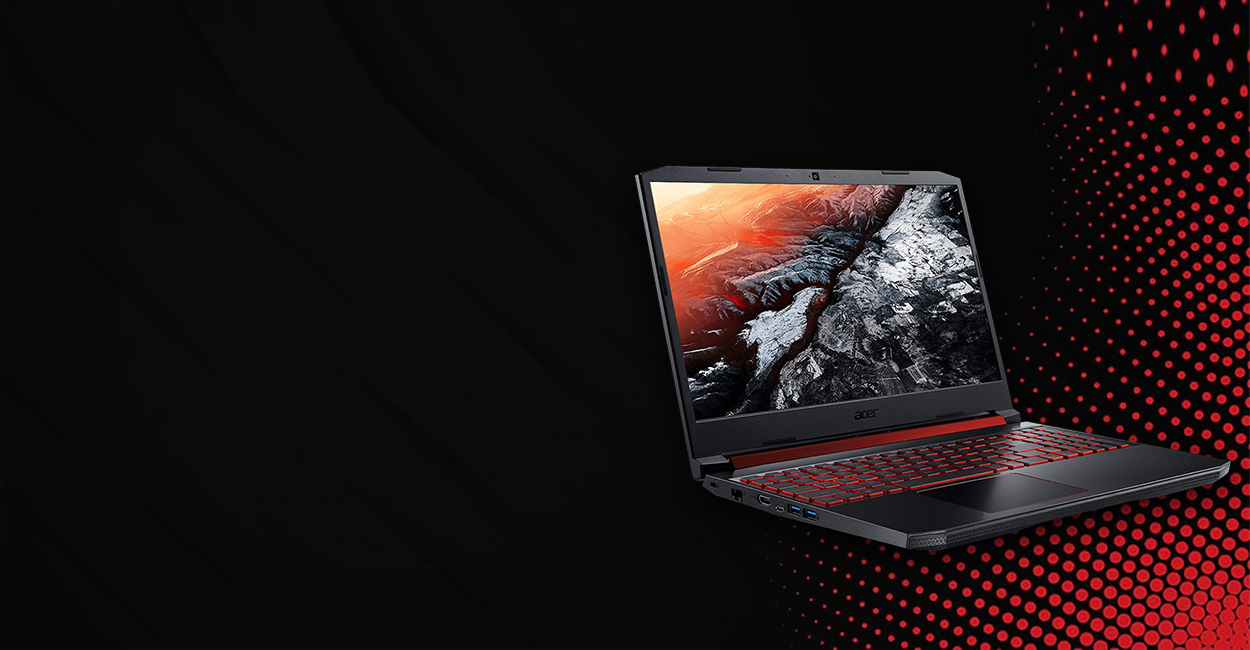
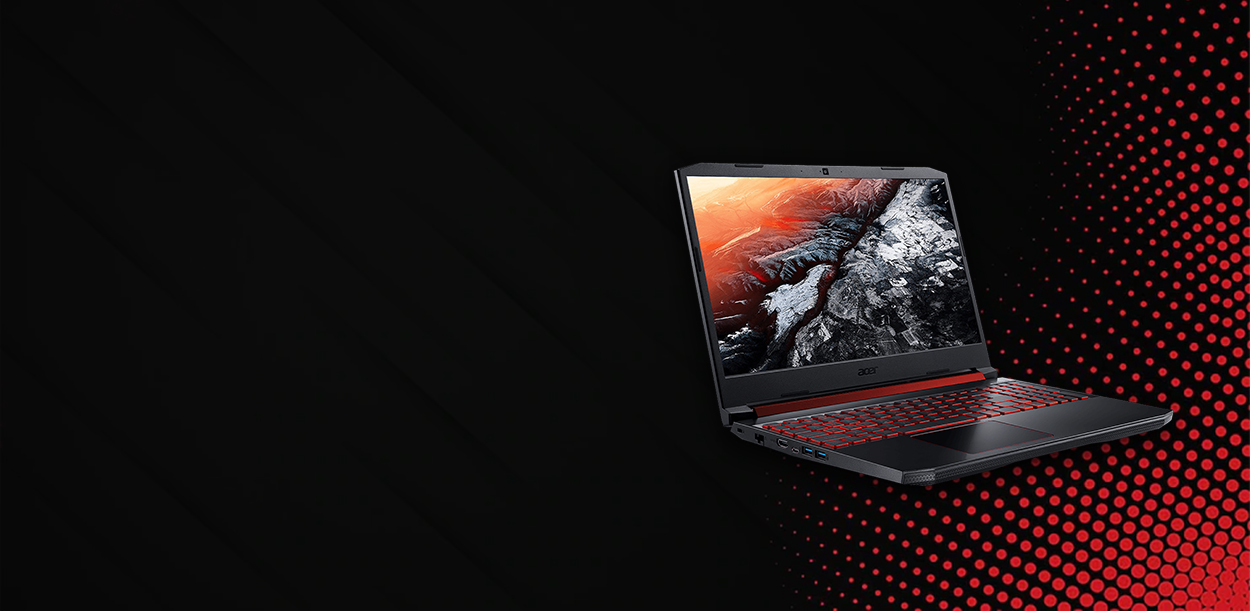
WP-4

Changed region(s): [[0.4992, 0.0, 1.0, 0.9951]]

diff --git a/css/index.css b/css/index.css
@@ -59,7 +59,7 @@ section{
 }
 section.sec1{
     padding: 0 var(--padding-side) 100px var(--padding-side);
-    min-height: 400px;
+    min-height: 500px;
     flex-direction: column;
     background-image: url(../src/bg.jpg);
     background-position: center 55%;
@@ -90,7 +90,7 @@ header.hd_nav nav span{
 }
 
 div.txt-sec1{
-    margin: 5% 0 0 0;
+    margin: 2% 0 0 0;
     max-width: 50%;
 }
 div.txt-sec1 span,
@@ -105,7 +105,7 @@ div.txt-sec1 span{
     font-weight: 400;
 }
 div.txt-sec1 h1{
-    font-size: calc(1.2em + 3vw);
+    font-size: clamp(1.5em, 5vw, 4em);
     font-weight: 600;
 }
 div.txt-sec1 h2{
@@ -145,11 +145,13 @@ div.line{
         top: 50px;
         right: -100%;
         padding: 20px 30px;
-        width: 50%;
+        width: 70%;
+        max-width: 400px;
         height: 100%;
         flex-direction: column;
         justify-content: flex-start;
         background-color: var(--gray-regular);
+        transition: 200ms ease;
     }
     header.hd_nav nav span{
         margin: 10px 0;
@@ -164,6 +166,8 @@ div.line{
 
     div#burguer{
         display: flex;
+        cursor: pointer;
+        transition: 200ms ease;
     }
     header.hd_socials{
         position: fixed;
@@ -178,8 +182,227 @@ div.line{
     }
     section.sec1{
         margin: 50px 0 0 0;
+        background-image: url(../src/bg-2.jpg);
+        background-position: center;
+        background-size: center;
+        min-height: 600px;
     }
     div.txt-sec1{
-        margin: 0 0 0 0;
+        width: 100%;
+        max-width: none;
+        margin: -40px 0 0 0;
+        display: flex;
+        flex-direction: column;
+        align-items: center;
+        text-align: center;
+    }
+    div.txt-sec1 h1{
+        max-width: 400px;
+    }
+    
+    div.txt-sec1 button{
+        margin: 15px 0 0 0;
+    }
+}
+
+div#praises{
+    width: 100%;
+    display: flex;
+    justify-content: center;
+    background-color: var(--gray-dark);
+}
+div.praise-cont{
+    margin: -40px 0 0 0;
+    padding: 10px 20px;
+    width: 80%;
+    max-width: 900px;
+    display: flex;
+    justify-content: center;
+    align-items: center;
+    background-color: var(--red-medium);
+}
+div.praise{
+    margin: 0 clamp(10px, 5vw, 80px);
+    display: flex;
+    flex-direction: column;
+    justify-content: center;
+    align-items: center;
+}
+div.praise strong{
+    color: #fff;
+    font-size: 20px;
+}
+div.praise img{
+    width: 60px;
+    height: 60px;
+}
+@media screen and (max-width: 850px){
+    div.praise-cont{
+        margin: -2vw 0 0 0;
+        width: 95%;
+        max-width: none;
+    }
+}
+@media screen and (max-width: 500px){
+    div.praise-cont{
+        display: none;
+    }
+    section.sec2{
+        border-top: 7px solid var(--red-medium);
+    }
+}
+
+section.sec2{
+    padding: 20px var(--padding-side);
+    background-color: var(--gray-dark);
+}
+div.cont-sec2{
+    margin: 20px 0;
+    width: 100%;
+    display: flex;
+    justify-content: center;
+}
+div.cont-sec2 > img{
+    margin: 0 20px 0 0;
+    width: 450px;
+    height: 342px;
+}
+div.txt-sec2 h3{
+    margin: 0 0 10px 0;
+    font-size: 1.8em;
+    color: #fff;
+}
+div.txt-sec2 p{
+    max-width: 500px;
+    color: #fff;
+    font-size: 1.2em;
+    font-weight: lighter;
+    line-height: 1.5;
+}
+div.txt-sec2
+div.processor{
+    margin: 20px 0;
+    display: flex;
+    align-items: center;
+}
+div.processor img{
+    margin: 0 25px 0 0;
+    width: 100px;
+    height: 100px;
+}
+div.processor ul li{
+    margin: 7px 0;
+    color: #fff;
+    list-style: none;
+    font-size: 1.3em;
+}
+div.txt-sec2 button{
+    margin: 20px 0 0 0;
+    padding: 10px 50px;
+    color: #fff;
+    font-size: 1.6em;
+    cursor: pointer;
+    background-color: var(--red-medium);
+}
+@media screen and (max-width: 1000px){
+    div.cont-sec2{
+        flex-direction: column-reverse;
+        align-items: center;
+        justify-content: flex-start;
+    }
+    div.cont-sec2 > img{
+        margin: 40px 0 0 0;
+    }
+    div.txt-sec2{
+        display: flex;
+        flex-direction: column;
+        align-items: center;
+    }
+    div.txt-sec2 h3{
+        font-size: calc(1.5em + 2vw);
+        text-align: center;
+    }
+    div.txt-sec2 p{
+        max-width: none;
+        font-size: calc(14px + 1vw);
+        text-align: center;
+    }
+    div.processor{
+        margin: 30px 0;
+        justify-content: center;
+    }
+}
+
+section.sec3{
+    border-top: 7px solid var(--red-medium);
+    border-bottom: 7px solid var(--red-medium);
+    padding: 40px var(--padding-side);
+    background-color: var(--gray-medium);
+    flex-direction: column;
+    align-items: center;
+}
+section.sec3 > h3{
+    margin: 0 0 25px 0;
+    color: #fff;
+    font-size: 2em;
+}
+div.cont-sec3{
+    width: 100%;
+    display: flex;
+    justify-content: center;
+    align-items: baseline;
+}
+div.component{
+    margin: 10px;
+    padding: 0 0 20px 0;
+    width: 100%;
+    max-width: 350px;
+    text-align: center;
+    background-color: var(--gray-regular);
+}
+div.img-comp{
+    margin: 0 0 20px 0;
+    width: 100%;
+    height: calc(10vh + 80px);
+    max-height: 180px;
+    background-repeat: no-repeat;
+    background-position: center;
+    background-size: cover;
+}
+div.img-comp.ssd{
+    background-image: url(../src/SSD.jpg);
+}
+div.img-comp.ram{
+    background-image: url(../src/RAM.jpg);
+}
+div.img-comp.rtx{
+    background-image: url(../src/RTX.jpg);
+}
+div.component strong{
+    color: #fff;
+    font-size: 1.5em;
+}
+div.component p{
+    margin: 10px 0;
+    color: #fff;
+    font-size: 1em;
+    font-weight: lighter;
+}
+
+@media screen and (max-width: 1000px){
+    div.cont-sec3{
+        flex-direction: column-reverse;
+        align-items: center;
+    }
+    div.component{
+        max-width: 500px;
+    }
+    div.img-comp{
+        height: 200px;
+        max-height: none;
+    }
+    div.component p{
+        margin: 15px 0;
+        font-size: 1.3em;
     }
 }

diff --git a/index.html b/index.html
@@ -78,6 +78,82 @@
                 <button>View More</button>
             </div>
         </section>
+
+        <div id="praises">
+            <div class="praise-cont">
+                <div class="praise">
+                    <img src="./src/icons/economizar.png" alt="#">
+                    <strong>Economy</strong>
+                </div>
+
+                <div class="praise">
+                    <img src="./src/icons/laptop.png" alt="#">
+                    <strong>Appearence</strong>
+                </div>
+
+                <div class="praise">
+                    <img src="./src/icons/avaliacao.png" alt="#">
+                    <strong>Experience</strong>
+                </div>
+            </div>
+        </div>
+
+        <section class="sec2">
+            <div class="cont-sec2">
+                <img src="./src/sobre.png" alt="">
+
+                <div class="txt-sec2">
+                    <h3>ABOUT THE NOTEBOOK</h3>
+                    <p>
+                        The Nitro 5 AN515 55 53E5 model is a milestone in the line and a reference for gamers for games that require, above all, high machine efficiency.
+                        Resulting in a noticeable increase in execution speed.
+                    </p>
+
+                    <div class="processor">
+                        <img src="./src/icons/processador.png" alt="">
+                        <ul>
+                            <li>Intel i5 10ª Generation</li>
+                            <li>4 Cores (2.50GHz à 4.50GHz)</li>
+                            <li>8 MB Cache Memory</li>
+                        </ul>
+                    </div>
+
+                    <button>More Informations</button>
+                </div>
+            </div>
+        </section>
+
+        <section class="sec3">
+            <h3>COMPONENTS</h3>
+
+            <div class="cont-sec3">
+                <div class="component">
+                    <div class="img-comp ssd"></div>
+                    <strong>SSD</strong>
+                    <p>256 GB of Storage</p>
+                    <p>Direct communication with the CPU</p>
+                    <p>NVMe protocol</p>
+                </div>
+
+                <div class="component">
+                    <div class="img-comp ram"></div>
+                    <strong>RAM Memory</strong>
+                    <p>50% performance increase;</p>
+                    <p>Cyclic Redundancies (CRC);</p>
+                    <p>8GB and 2933 Mhz memory;</p>
+                    <p>Two 2's split in DDR4;</p>
+                    <p>Maximum expansion of 32GB.</p>
+                </div>
+
+                <div class="component">
+                    <div class="img-comp rtx"></div>
+                    <strong>Video Card</strong>
+                    <p>NVIDIA GeForce RTX 3050+</p>
+                    <p>4 GB GDDR6 Memory</p>
+                </div>
+            </div>
+        </section>
+
     </div>
 
     <script src="./js/index.js"></script>

diff --git a/js/index.js b/js/index.js
@@ -1,0 +1,9 @@
+const burguer = document.getElementById("burguer");
+const menu_res = document.querySelector("header.hd_nav nav");
+
+burguer.addEventListener("click", ()=>{
+    if(menu_res.style.right == '-100%')
+        menu_res.style.right = '0%';
+    else
+        menu_res.style.right = '-100%';
+});
